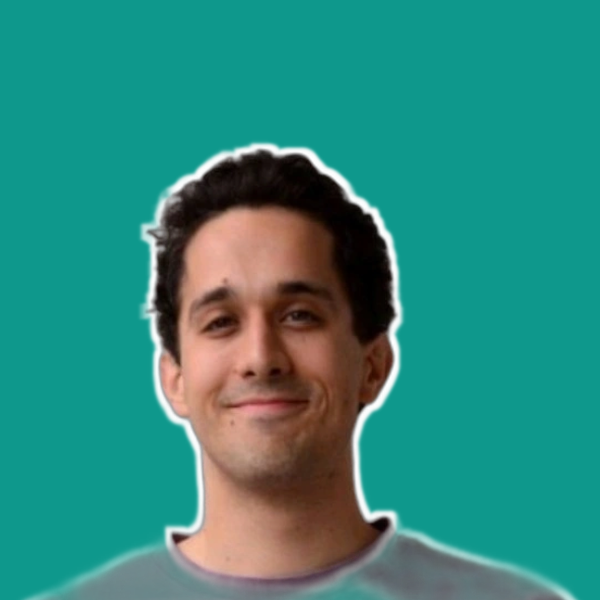
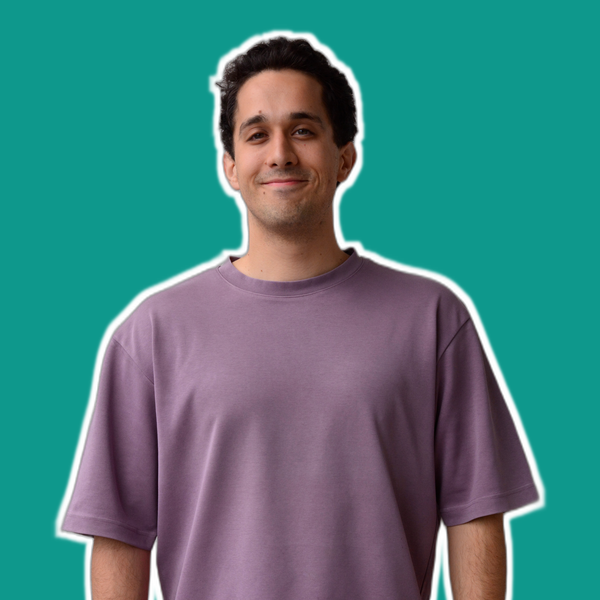
Move Peter & Zlatan up (head high, torso to bottom); new high-res Zlatan photo; remove unused images
- Re-framed Peter & Zlatan as head + torso (zoomed out, anchored top); Zlatan uses the new _LUB3696 source

- Removed 5.4MB raw source, old duplicate, and 7 now-unused initials-placeholder SVGs + their onerror fallbacks

diff --git a/index.html b/index.html
@@ -359,7 +359,6 @@
           <li class="card card--team card--team-pi reveal">
             <div class="card--team__photo">
               <img src="assets/images/team/peter-hristov.jpeg"
-                   onerror="this.onerror=null;this.src='assets/images/team/petar-hristov.svg'"
                    alt="Peter Hristov" width="160" height="160" loading="lazy">
             </div>
             <h3 class="card--team__name">Peter Hristov</h3>
@@ -391,7 +390,6 @@
           <li class="card card--team reveal">
             <div class="card--team__photo">
               <img src="assets/images/team/mariya-pantusheva.jpg"
-                   onerror="this.onerror=null;this.src='assets/images/team/mariya-pantusheva.svg'"
                    alt="Mariya Pantusheva" width="160" height="160" loading="lazy">
             </div>
             <h3 class="card--team__name">Mariya Pantusheva</h3>
@@ -422,7 +420,6 @@
           <li class="card card--team reveal">
             <div class="card--team__photo">
               <img src="assets/images/team/radostin-mitkov.jpg"
-                   onerror="this.onerror=null;this.src='assets/images/team/radostin-mitkov.svg'"
                    alt="Radostin Mitkov" width="160" height="160" loading="lazy">
             </div>
             <h3 class="card--team__name">Radostin Mitkov</h3>
@@ -453,7 +450,6 @@
           <li class="card card--team reveal">
             <div class="card--team__photo">
               <img src="assets/images/team/alexander-kostadinov.jpg"
-                   onerror="this.onerror=null;this.src='assets/images/team/alexander-kostadinov.svg'"
                    alt="Alexander Kostadinov" width="160" height="160" loading="lazy">
             </div>
             <h3 class="card--team__name">Alexander Kostadinov</h3>
@@ -478,7 +474,6 @@
           <li class="card card--team reveal">
             <div class="card--team__photo">
               <img src="assets/images/team/premjit-saha.jpeg"
-                   onerror="this.onerror=null;this.src='assets/images/team/premjit-saha.svg'"
                    alt="Premjit Saha" width="160" height="160" loading="lazy">
             </div>
             <h3 class="card--team__name">Premjit Saha</h3>
@@ -509,7 +504,6 @@
           <li class="card card--team reveal">
             <div class="card--team__photo">
               <img src="assets/images/team/zlatan-dimitrov.png"
-                   onerror="this.onerror=null;this.src='assets/images/team/zlatan-dimitrov.svg'"
                    alt="Zlatan Dimitrov" width="160" height="160" loading="lazy">
             </div>
             <h3 class="card--team__name">Zlatan Dimitrov</h3>
@@ -539,8 +533,7 @@
 
           <li class="card card--team reveal">
             <div class="card--team__photo">
-              <img src="assets/images/team/valentin-nikolov.jpg"
-                   onerror="this.onerror=null;this.src='assets/images/team/valentin-nikolov.svg'"
+              <img src="assets/images/team/valentin-nikolov.svg"
                    alt="Valentin Nikolov" width="160" height="160" loading="lazy">
             </div>
             <h3 class="card--team__name">Valentin Nikolov</h3>
@@ -553,7 +546,6 @@
           <li class="card card--team reveal">
             <div class="card--team__photo">
               <img src="assets/images/team/alexander-yordanov.jpeg"
-                   onerror="this.onerror=null;this.src='assets/images/team/alexander-yordanov.svg'"
                    alt="Alexander Yordanov" width="160" height="160" loading="lazy">
             </div>
             <h3 class="card--team__name">Alexander Yordanov</h3>